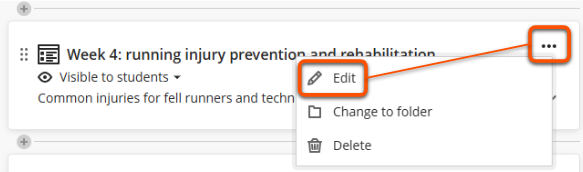
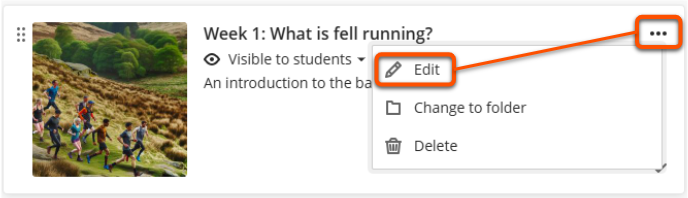
Add edit folder/LM details

diff --git a/docs/ultra/prepare-site.md b/docs/ultra/prepare-site.md
@@ -315,7 +315,8 @@ Add your content to the relevant section by:
     Check the content in each weekly materials section:
 
     - **make sure all materials are accessible** (see section below)
-    - **update materials** as needed for the new year (eg. new lecture slides) and **delete** any old materials (files, text content etc.) or unused placeholder Documents/content.
+    - **update weekly section titles and descriptions** as needed by [editing the Learning Module](../ultra/folder-learning-module.md#edit-an-existing-container)
+    - **update materials** as needed for the new year (eg. new lecture slides) and **delete** any old materials (files, text content etc.) or unused placeholder Documents or content.
     - **label items and files clearly** to describe the content without having to open it and give **context on when/how** to use materials. [Documents](../ultra/documents.md) are useful for providing text alongside many different content types.
     - **organise items logically** to guide students through the materials (eg. every week: lecture materials then seminar information)
     - **check links and embedded content** are shared correctly for the new cohort. For example, update links to yearly handbook documents and check any re-used Panopto videos are shared correctly (see Panopto section below).
@@ -331,6 +332,7 @@ Add your content to the relevant section by:
     Add your content to the relevant weekly materials section:
 
     - **make sure all materials are accessible** (see section below)
+    - **update weekly section titles and descriptions** for your module content by [editing the Learning Module](../ultra/folder-learning-module.md#edit-an-existing-container)
     - **edit placeholder Documents** included in the template or **add your own Documents** as needed. 
     - **delete** any unused placeholder Documents or content.
     - **label items and files clearly** to describe the content without having to open it, and give **context on when/how** to use materials. [Documents](../ultra/documents.md) are useful for providing text alongside many different content types. 

diff --git a/docs/ultra/folder-learning-module.md b/docs/ultra/folder-learning-module.md
@@ -75,6 +75,13 @@ To create a Folder or Learning Module:
     - Add a [Learning Module image](#learning-module-images) if desired.
 5. Click **Save**.
 
+## Edit an existing container
+
+1. Click the **three dots icon** then **Edit** for an existing Learning Module.
+</br>![decorative](images/folder-learning-module-3dots-edit.png)
+2. Update the Title, Description (information that shows on the Course Content page) and other settings as needed.
+3. Click **Save**.
+
 ## Convert container type
 
 !!! Note
@@ -103,7 +110,7 @@ Learning Modules can display a small image on the Course Content page to make th
 
     Some departmental templates include pre-populated Learning Module images and icons. Refer to your departmental guidance on whether these should be changed.
 
-To add an image:
+To add or change an image:
 
 1. Create a new Learning Module or click the **three dots icon** then **Edit** for an existing Learning Module.
 </br>![decorative](images/folder-learning-module-3dots-edit.png)
